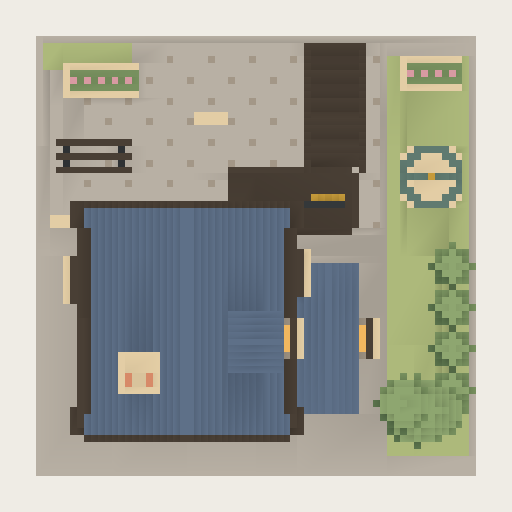
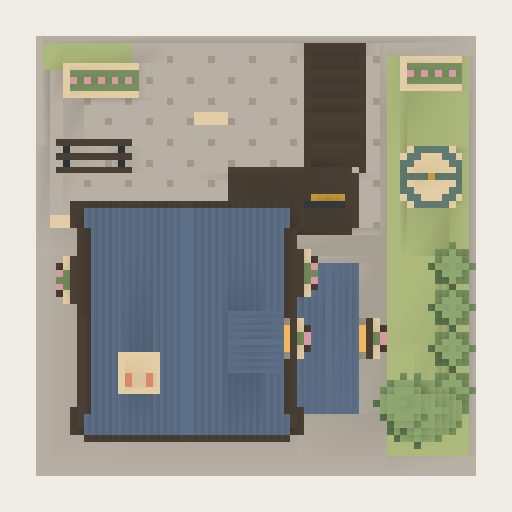
refine(ministry): add flower boxes to every window and flush door glazing

diff --git a/src/generators/ministryOfMagic.js b/src/generators/ministryOfMagic.js
@@ -3,7 +3,7 @@ import { createVoxelMassingLab, VOXEL_SIZE, VOXEL_WRITE_PRIORITIES } from "./vox
 
 export const MINISTRY_ASSET_ID = "ministry-tudor-001";
 export const MINISTRY_PARCEL_SIZE = 8;
-export const MINISTRY_ASSET_REVISION = 6;
+export const MINISTRY_ASSET_REVISION = 7;
 // Material roles match the existing civic buildings. Metal is an accent, not
 // a substitute for slate roofing or glazing; no asset-specific RGB palette.
 export const MINISTRY_MATERIALS = Object.freeze({
@@ -20,7 +20,7 @@ export function ministryOfMagicSpec() {
     baseYVoxels: base, heightVoxels: height, cap, materials, facade
   });
   const spec = createUrbanMassingSpec({
-    id: MINISTRY_ASSET_ID, seed: "ministry-tudor-voxel-v6", widthCells: 2, depthCells: 2,
+    id: MINISTRY_ASSET_ID, seed: "ministry-tudor-voxel-v7", widthCells: 2, depthCells: 2,
     masses: [
       mass("reception", -9, -10, 22, 23, 0, 18),
       mass("council", -9, -10, 28, 26, 18, 17),
@@ -85,6 +85,12 @@ export function addMinistryVoxelDetails(buffer) {
     if(h>=7) patch("timber",0,Math.floor(h*.57),1,w,1,1);
     patch("stoneShadow",-1,-2,0,w+2,1,2);
     patch("sandstone",-1,-2,2,w+2,1,1);
+    // Every window gets a shallow box in its own facade coordinates, including
+    // side/rear casements and the dormer. Flowers sit below the glass.
+    patch("timber",0,-3,2,w,1,2);
+    patch("foliage",1,-2,2,w-2,1,2);
+    for(const dx of [1,w-2]) patch("blossomPink",dx,-1,3,1,1,1);
+    patch("foliage",Math.floor(w/2),-4,3,1,1,1);
   }
   function planter(x,z,w=9,d=5) {
     box("sandstone",x,0,z,w,3,d); box("soil",x+1,3,z+1,w-2,1,d-2);
@@ -114,12 +120,6 @@ export function addMinistryVoxelDetails(buffer) {
     for(const x of [left,right]) box("timber",x,bottom,back+5,1,top-bottom+1,1);
   }
   window(-20,23,3,5,8);
-  // One planted sill provides a small lived-in detail without repeating a
-  // flower box on every window or hiding the structural window rhythm.
-  box("timber",-20,20,5,6,1,2);
-  box("foliage",-19,21,5,4,1,2);
-  voxel("blossomPink",-19,22,6); voxel("blossomPink",-16,22,6);
-  voxel("foliage",-18,19,6);
   // One principal casement; secondary openings stay narrow and leave plaster
   // visible. Side and rear elevations get one opening per storey, not pairs.
   window(-13,39,4,7,9);
@@ -130,9 +130,9 @@ export function addMinistryVoxelDetails(buffer) {
   }
   window(-18,5,2,4,8);
   box("timber",-11,1,2,8,14,1); box("timber",-10,2,3,6,12,1);
-  box("warmWindow",-9,10,4,4,3,1); voxel("gildedMetal",-5,7,4);
+  box("warmWindow",-9,10,3,4,3,1); voxel("gildedMetal",-5,7,4);
   box("sandstone",-13,0,4,12,1,4);
-  box("timber",-3,19,3,6,13,1); box("warmWindow",-2,27,4,4,3,1);
+  box("timber",-3,19,3,6,13,1); box("warmWindow",-2,27,3,4,3,1);
   // Recessed timber door panels and a small brass latch, not a metal slab.
   box("timber",-9,3,4,4,4,1); box("timber",-2,20,4,4,4,1);
   voxel("gildedMetal",1,25,4);
@@ -225,7 +225,7 @@ export function createMinistryOfMagic({ cellWorldSize = 4, nightLighting = 0 } =
     nightLighting, voxelDetailPass: addMinistryVoxelDetails });
   root.name = "MinistryOfMagic";
   root.scale.setScalar(cellWorldSize / 4);
-  root.userData.contract.sourceOfTruth = "UrbanMassingSpec + ministry-tudor-v6 authored voxel detail pass";
+  root.userData.contract.sourceOfTruth = "UrbanMassingSpec + ministry-tudor-v7 authored voxel detail pass";
   root.userData = { ...root.userData, assetId: MINISTRY_ASSET_ID, assetRevision: MINISTRY_ASSET_REVISION,
     representation: "special-landmark-voxel", sphereProjectionRoot: true,
     footprint: "2x2", entrance: "north", authoredParcelSize: 8, voxelSize: VOXEL_SIZE };
